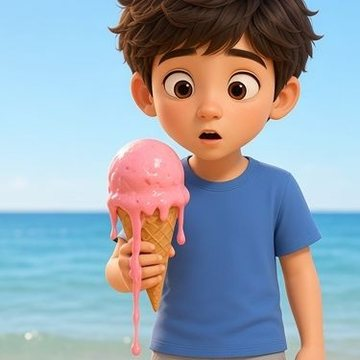
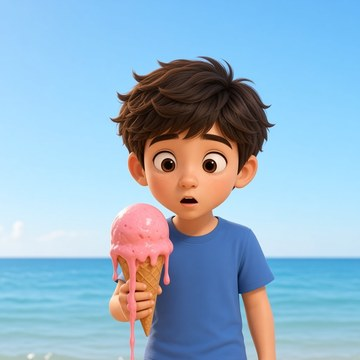
Games QA: keep faces/heads in frame on all mm-* bins and cards (Family Team bins contain-fit, top-anchored cover crops, regenerate 3 pictures with cut-off heads)

diff --git a/games/match-kit/mk.js b/games/match-kit/mk.js
@@ -1,7 +1,7 @@
 /* Little Wonders match-kit: one small engine behind the "Match" game series (sort, quiz, memory, order). Config comes from each game page. */
 (function(){
 const BASE=new URL('art/',document.currentScript.src).href;
-const FLAT={"c-ch1-cook-dinner-1.jpg":"#fef1e0","c-ch1-cook-dinner-2.jpg":"#fdf2e0","c-ch1-do-homework-1.jpg":"#fdf0dd","c-ch1-do-homework-2.jpg":"#fcedd6","c-ch1-feed-the-dog-1.jpg":"#fef3e1","c-ch1-feed-the-dog-2.jpg":"#fef3e1","c-ch1-make-the-bed-1.jpg":"#fbebd4","c-ch1-make-the-bed-2.jpg":"#fbefd9","c-ch1-tidy-up-toys-1.jpg":"#fef3e1","c-ch1-tidy-up-toys-2.jpg":"#fef3e1","c-ch1-wash-the-dishes-1.jpg":"#fdf2e0","c-ch1-wash-the-dishes-2.jpg":"#fef1e0","c-ch2-do-the-laundry-1.jpg":"#fdf5e2","c-ch2-do-the-laundry-2.jpg":"#fff4e2","c-ch2-mow-the-lawn-1.jpg":"#fdf1d9","c-ch2-mow-the-lawn-2.jpg":"#fdf1d9","c-ch2-sweep-the-porch-1.jpg":"#fdf1d9","c-ch2-sweep-the-porch-2.jpg":"#fdf1d9","c-ch2-take-out-the-trash-1.jpg":"#fbecd5","c-ch2-take-out-the-trash-2.jpg":"#fcedd6","c-ch2-wash-the-car-1.jpg":"#fcedd6","c-ch2-wash-the-car-2.jpg":"#faebd4","c-ch2-water-the-plants-1.jpg":"#fef3e1","c-ch2-water-the-plants-2.jpg":"#fef3df","c-ea1-bird-1.jpg":"#fcf5eb","c-ea1-cat-1.jpg":"#faf5e2","c-ea1-dog-1.jpg":"#fcf6ea","c-ea1-goldfish-1.jpg":"#fbf7ec","c-ea1-hamster-1.jpg":"#f9f5ea","c-ea1-rabbit-1.jpg":"#fbf7eb","c-ea2-cow-1.jpg":"#fef5e4","c-ea2-frog-1.jpg":"#fbf0de","c-ea2-sheep-1.jpg":"#fef5e4","c-ea2-snail-1.jpg":"#fbf0de","place-fridge.jpg":"#faf4e6","place-garden.jpg":"#faf5e7","place-oven.jpg":"#fbf5e7","place-pot.jpg":"#fbf5e7","w-bicycle.jpg":"#fbf6e3","w-cup.jpg":"#faf3e3","w-glasses.jpg":"#faf6ea","w-hat.jpg":"#f9f1de","w-key.jpg":"#fcf5eb","w-lantern.jpg":"#f9f5ea","w-plate.jpg":"#faf6ea","w-shoes.jpg":"#fcf6e8","w-soap.jpg":"#f9f5ea","w-spoon.jpg":"#fdf7eb","w-teapot.jpg":"#fcf5eb","w-teddy.jpg":"#f5eedc","w-toothbrush.jpg":"#f9f2e0","w-towel.jpg":"#f9f5ea","w-umbrella.jpg":"#fdf7e7","w-washer.jpg":"#f9f5ea","w-watch.jpg":"#f9f1e4","x-baby-snail.jpg":"#f8f0d9","x-blank-page.jpg":"#faf6eb","x-calf.jpg":"#faf7e8","x-charger.jpg":"#faf6eb","x-chick.jpg":"#faf7e8","x-clean-clothes.jpg":"#faf6eb","x-cold-water.jpg":"#f9f5ea","x-comb.jpg":"#faf6ea","x-curtain.jpg":"#f9f5ea","x-dark-path.jpg":"#fbf4e2","x-dirty-clothes.jpg":"#faf6eb","x-done-page.jpg":"#faf6eb","x-duckling.jpg":"#faf7e8","x-egg-nest.jpg":"#f9f1dc","x-empty-bath.jpg":"#fbf4e2","x-empty-cups.jpg":"#fbf6e3","x-fork.jpg":"#faf6ea","x-frogspawn.jpg":"#f8f0db","x-full-bath.jpg":"#fcf4e1","x-hot-tea.jpg":"#faf6ea","x-lamb.jpg":"#faf7e8","x-lit-lantern.jpg":"#fcf4e1","x-lock.jpg":"#f9f5ea","x-mirror.jpg":"#f9f5ea","x-music-guitar.jpg":"#faf5ea","x-phone.jpg":"#fbf7eb","x-placeset.jpg":"#ffffff","x-silent-guitar.jpg":"#faf5ea","x-soap.jpg":"#ffffff","x-tadpole.jpg":"#f9f1dc","x-tea-cups.jpg":"#fbf5e5","x-towel.jpg":"#ffffff","x-window.jpg":"#fbf7eb"};/* flat-background pictures: contain-fit on their own paper colour */
+const FLAT={"h-mom.jpg":"#ffefd6","h-dad.jpg":"#feefd8","h-max.jpg":"#fdeed7","c-ch1-cook-dinner-1.jpg":"#fef1e0","c-ch1-cook-dinner-2.jpg":"#fdf2e0","c-ch1-do-homework-1.jpg":"#fdf0dd","c-ch1-do-homework-2.jpg":"#fcedd6","c-ch1-feed-the-dog-1.jpg":"#fef3e1","c-ch1-feed-the-dog-2.jpg":"#fef3e1","c-ch1-make-the-bed-1.jpg":"#fbebd4","c-ch1-make-the-bed-2.jpg":"#fbefd9","c-ch1-tidy-up-toys-1.jpg":"#fef3e1","c-ch1-tidy-up-toys-2.jpg":"#fef3e1","c-ch1-wash-the-dishes-1.jpg":"#fdf2e0","c-ch1-wash-the-dishes-2.jpg":"#fef1e0","c-ch2-do-the-laundry-1.jpg":"#fdf5e2","c-ch2-do-the-laundry-2.jpg":"#fff4e2","c-ch2-mow-the-lawn-1.jpg":"#fdf1d9","c-ch2-mow-the-lawn-2.jpg":"#fdf1d9","c-ch2-sweep-the-porch-1.jpg":"#fdf1d9","c-ch2-sweep-the-porch-2.jpg":"#fdf1d9","c-ch2-take-out-the-trash-1.jpg":"#fbecd5","c-ch2-take-out-the-trash-2.jpg":"#fcedd6","c-ch2-wash-the-car-1.jpg":"#fcedd6","c-ch2-wash-the-car-2.jpg":"#faebd4","c-ch2-water-the-plants-1.jpg":"#fef3e1","c-ch2-water-the-plants-2.jpg":"#fef3df","c-ea1-bird-1.jpg":"#fcf5eb","c-ea1-cat-1.jpg":"#faf5e2","c-ea1-dog-1.jpg":"#fcf6ea","c-ea1-goldfish-1.jpg":"#fbf7ec","c-ea1-hamster-1.jpg":"#f9f5ea","c-ea1-rabbit-1.jpg":"#fbf7eb","c-ea2-cow-1.jpg":"#fef5e4","c-ea2-frog-1.jpg":"#fbf0de","c-ea2-sheep-1.jpg":"#fef5e4","c-ea2-snail-1.jpg":"#fbf0de","place-fridge.jpg":"#faf4e6","place-garden.jpg":"#faf5e7","place-oven.jpg":"#fbf5e7","place-pot.jpg":"#fbf5e7","w-bicycle.jpg":"#fbf6e3","w-cup.jpg":"#faf3e3","w-glasses.jpg":"#faf6ea","w-hat.jpg":"#f9f1de","w-key.jpg":"#fcf5eb","w-lantern.jpg":"#f9f5ea","w-plate.jpg":"#faf6ea","w-shoes.jpg":"#fcf6e8","w-soap.jpg":"#f9f5ea","w-spoon.jpg":"#fdf7eb","w-teapot.jpg":"#fcf5eb","w-teddy.jpg":"#f5eedc","w-toothbrush.jpg":"#f9f2e0","w-towel.jpg":"#f9f5ea","w-umbrella.jpg":"#fdf7e7","w-washer.jpg":"#f9f5ea","w-watch.jpg":"#f9f1e4","x-baby-snail.jpg":"#f8f0d9","x-blank-page.jpg":"#faf6eb","x-calf.jpg":"#faf7e8","x-charger.jpg":"#faf6eb","x-chick.jpg":"#faf7e8","x-clean-clothes.jpg":"#faf6eb","x-cold-water.jpg":"#f9f5ea","x-comb.jpg":"#faf6ea","x-curtain.jpg":"#f9f5ea","x-dark-path.jpg":"#fbf4e2","x-dirty-clothes.jpg":"#faf6eb","x-done-page.jpg":"#faf6eb","x-duckling.jpg":"#faf7e8","x-egg-nest.jpg":"#f9f1dc","x-empty-bath.jpg":"#fbf4e2","x-empty-cups.jpg":"#fbf6e3","x-fork.jpg":"#faf6ea","x-frogspawn.jpg":"#f8f0db","x-full-bath.jpg":"#fcf4e1","x-hot-tea.jpg":"#faf6ea","x-lamb.jpg":"#faf7e8","x-lit-lantern.jpg":"#fcf4e1","x-lock.jpg":"#f9f5ea","x-mirror.jpg":"#f9f5ea","x-music-guitar.jpg":"#faf5ea","x-phone.jpg":"#fbf7eb","x-placeset.jpg":"#ffffff","x-silent-guitar.jpg":"#faf5ea","x-soap.jpg":"#ffffff","x-tadpole.jpg":"#f9f1dc","x-tea-cups.jpg":"#fbf5e5","x-towel.jpg":"#ffffff","x-window.jpg":"#fbf7eb"};/* flat-background pictures: contain-fit on their own paper colour */
 function flatBg(i){return i&&FLAT[i]}
 const PAL=['#ffd0dc','#bfe6f2','#ffe8a8','#d3f0c4','#e2d4fa','#ffd9b8','#c9ecea','#fbd3f0'];
 const $=(s,r)=>(r||document).querySelector(s);

diff --git a/games/match-kit/mk.css b/games/match-kit/mk.css
@@ -149,4 +149,6 @@ body{font-family:"Baloo 2","Nunito","Arial Rounded MT Bold","Trebuchet MS",syste
  .btn,#ask button{min-height:38px;font-size:min(6vh,19px);padding:4px 16px}
 }
 /* sort bins show people/scenes: keep the head in frame when the box is wide and short */
-.bin .im:not(.cut):not(.flat) img{object-position:50% 18%}
+/* keep hair/heads in frame on every cover-fit card (people sit near the top of their pictures) */
+.im:not(.cut):not(.flat) img{object-position:50% 10%}
+.bin .im:not(.cut):not(.flat) img{object-position:50% 0}
